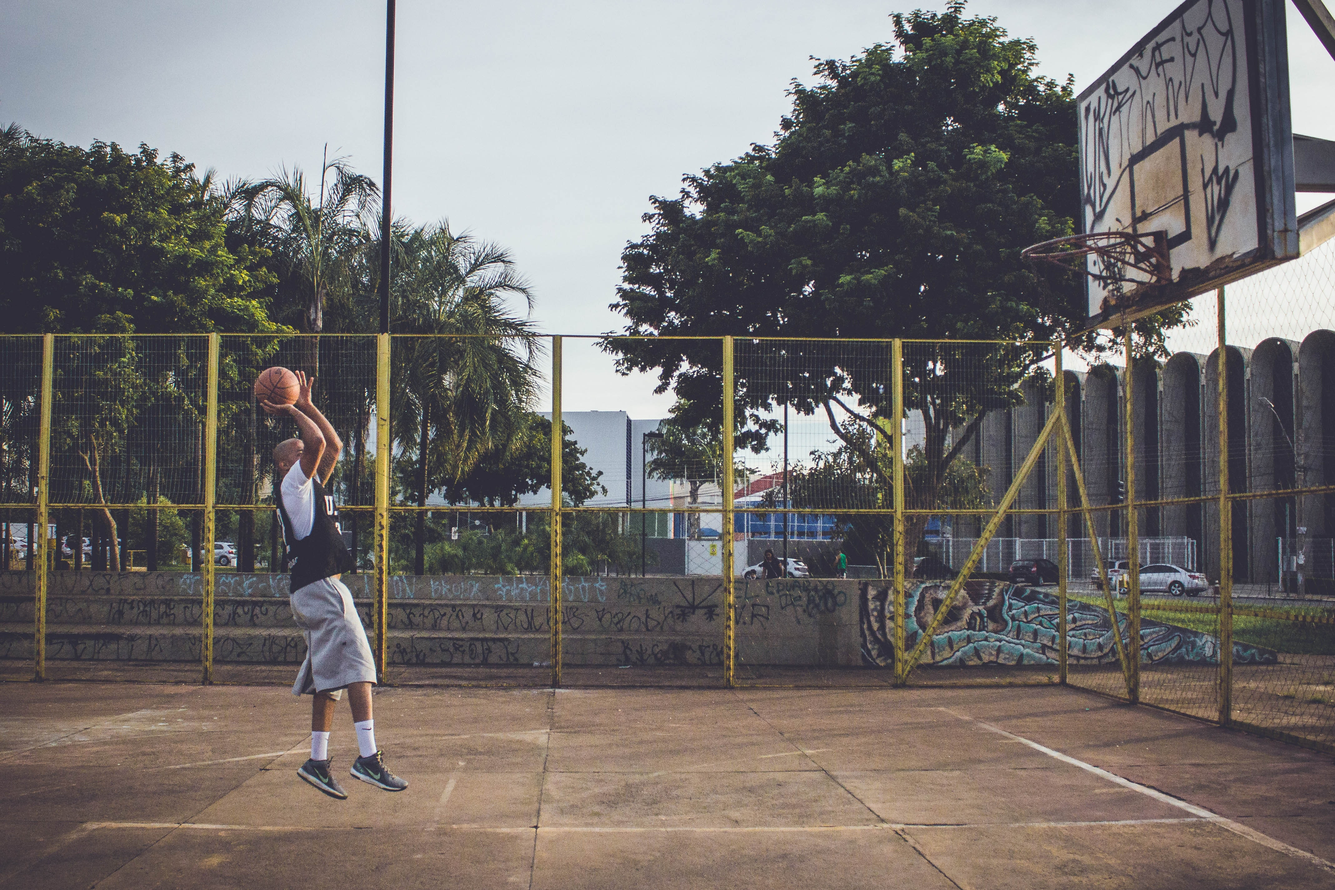
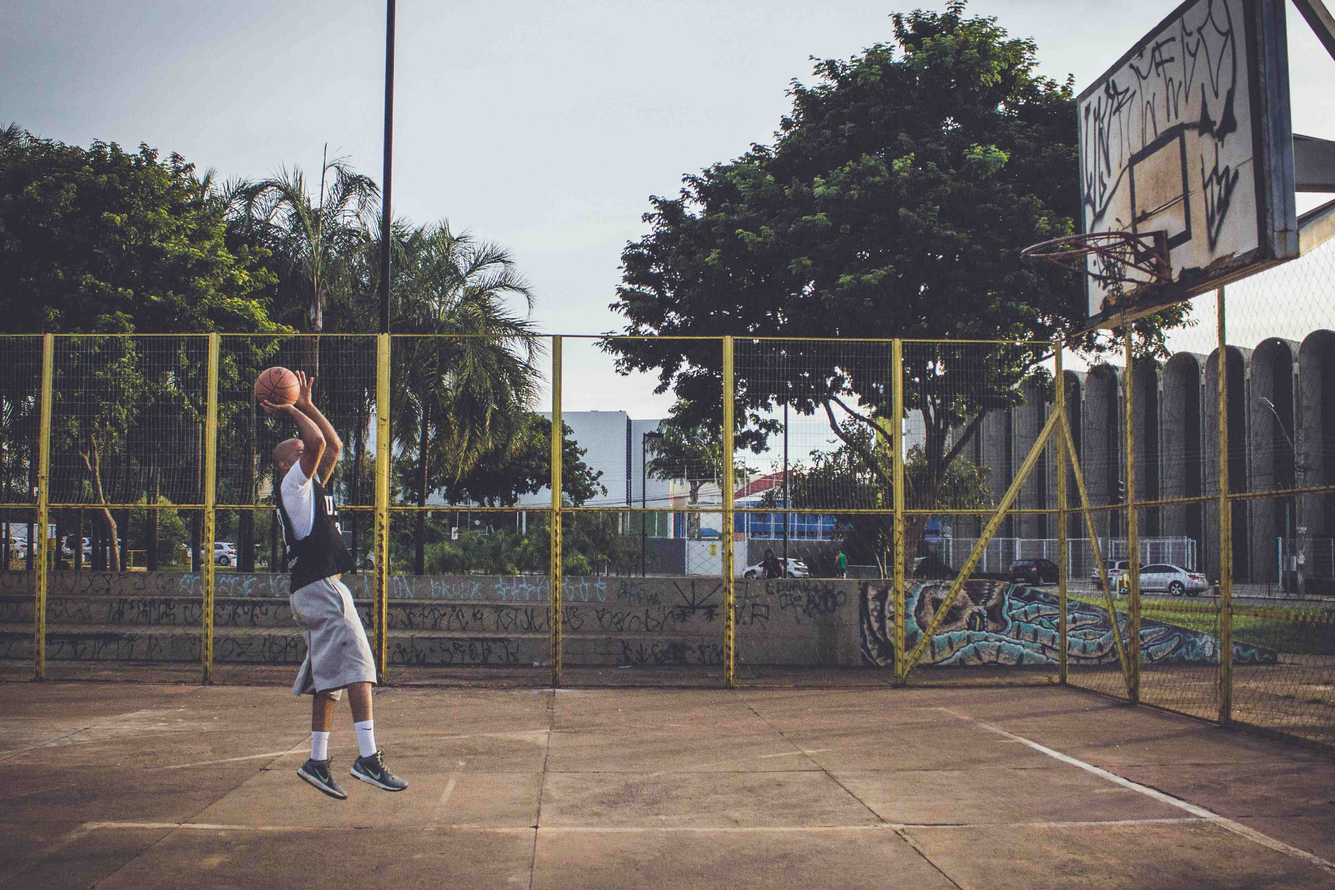
Change images formats and sizes to improve performance

diff --git a/index.html b/index.html
@@ -27,6 +27,9 @@
                     <a href="#anchor-two">Calendar</a>
                 </li>
                 <li>
+                    <a href="#anchor-three">Map</a>
+                </li>
+                <li>
                     <a href="signup.html">Sign up</a>
                 </li>
             </ul>
@@ -36,13 +39,13 @@
         <div id="hero-image"></div>
         <div id="cover-text">
             <h2>Basketball Youth Tournament</h2>
-            <h3>Brighton seafront & preston park</h3>
+            <h3 id="anchor-one">Brighton seafront & preston park</h3>
         </div>
     </section>
     <section id="tournament">
         <div id="text-side">
             <div class="text-side-left">
-                <h2 id="anchor-one">About Us <i class="fa-solid fa-question"></i></h2>
+                <h2>About Us <i class="fa-solid fa-question"></i></h2>
                 <hr>
                 <h3>First edition of the BYT in Brighton,UK. Here to help the East Sussex basketball community to grow and have a good time!</h3>
             </div>
@@ -52,7 +55,7 @@
                 <h3>If your aged 14-16yo, register and come down to Preston Park for the Selection Camp. 320 spots available, so make sure to get in shape!</h3>
             </div>
             <div class="text-side-left">
-                <h2>Teams <i class="fa-solid fa-people-group"></i></h2>
+                <h2 id="anchor-two">Teams <i class="fa-solid fa-people-group"></i></h2>
                 <hr>
                 <h3>We'll create 32 teams of 10 players each. The team creation process will be completely randomized to ensure fairness.</h3>
             </div>
@@ -64,13 +67,13 @@
             </div>
         </div>
         <div id="image-right">
-            <img src="assets/images/pexels-joaquín-ponce.jpg" alt="basketball entering a hoop">
+            <img src="assets/images/pexels-joaquín-ponce.webp" alt="basketball entering a hoop">
         </div>
     </section>
     <section id="calendar">
         <div id="calendar-event">
             <div class="calendar-event-left">
-                <h2 id="anchor-two">Selection Camp <i class="fa-solid fa-star"></i></h2>
+                <h2>Selection Camp <i class="fa-solid fa-star"></i></h2>
                 <h3>Wednesday 28/5</h3>
                 <h3>Preston Park</h3>
                 <h3>11:00 - 20:00</h3>
@@ -97,6 +100,11 @@
         
         <div id="image-left">
             <img src="assets/images/pexels-justiniano-adriano.jpg" alt="one side of a basketball court with a residential street in the background">
+        </div>
+    </section>
+    <section>
+        <div id="map">
+            <iframe id="anchor-three" src="https://www.google.com/maps/embed?pb=!1m18!1m12!1m3!1d5039.000522405874!2d-0.1498947695006414!3d50.84041986481047!2m3!1f0!2f0!3f0!3m2!1i1024!2i768!4f13.1!3m3!1m2!1s0x48758f89cecd70fd%3A0xfaed16e9581ad084!2sPreston%20Park!5e0!3m2!1sen!2suk!4v1664216664532!5m2!1sen!2suk" width="100%" height="450" style="border:0;" allowfullscreen="" loading="lazy" referrerpolicy="no-referrer-when-downgrade"></iframe>
         </div>
     </section>
     <footer>

diff --git a/assets/css/style.css b/assets/css/style.css
@@ -17,11 +17,14 @@ body {
 
 header {
     width: 100%;
+    height: 75px;
     position: fixed;
     background-color: #eaeded;
     z-index: 1;
     
 }
+
+
 
 
 /* logo and nav*/
@@ -70,6 +73,7 @@ header {
     height: 600px;
     width: 100%;
     overflow: hidden;
+    padding-top: 75px;
 
     position: relative;
 }
@@ -104,7 +108,7 @@ header {
 hr {
     border-top: 2px solid #17202a;
     width: 100%;
-    margin: 5px 0;
+    margin: 0;
 }
 
 #tournament {
@@ -227,6 +231,14 @@ hr {
     text-align: center;
 }
 
+/* map section */
+
+#map {
+    height: 450px;
+    width: 100%;
+    display: inline-block;
+}
+
 /* footer */
 
 #contacts {
@@ -301,7 +313,7 @@ hr {
 
 
 .form-section {
-    background: url('../images/pexels-rodnae-productions.jpg');
+    background: url('../images/pexels-rodnae-productions.webp');
     background-size: cover;
     background-position: center;
     height: 750px;
@@ -375,19 +387,25 @@ hr {
 
 /* For medium screens size from 900px wide and down */
 @media screen and (max-width: 900px) {
-    hr {
-        display: none;
+    #hero-outer {
+        height: auto;
     }
 
+    #cover-text {
+        width: 300px;
+        height: 150px;
+    }
+
+
     #text-side {
-        width: 50%;
+        width: 100%;
         height: 300px;
         float: left;
     }
 
     #image-right {
-        width: 50%;
-        height: 300px;
+        width: 100%;
+        height: auto;
         float: right;
     }
     
@@ -412,13 +430,13 @@ hr {
     }
 
     #image-left {
-        width: 50%;
-        height: 300px;
+        width: 100%;
+        height: auto;
         float: left;
     }
 
     #calendar-event {
-        width: 50%;
+        width: 100%;
         height: 300px;
         float: right;
     }
@@ -458,45 +476,10 @@ hr {
 
 /* for small screens size 650px wdie and down */
 @media screen and (max-width: 650px) {
-    #nav {
-        float: left;
-        padding-left: 10px;
-        font-size: 80%;
-    }
-
-    #cover-text {
-        width: 300px;
-        height: 150px;
-    }
-
-    #text-side {
-        width: 100%;
-    }
-
-    #image-right {
-        width: 100%;
-    }
-
-    #image-left {
-        width: 100%;
-    }
-
-    #calendar-event {
-        width: 100%;
-    }
-
-    .calendar-event-left, .calendar-event-right {
-        width: 50%;
-        height: 50%;
-        line-height: 10px;
-        margin: 0;
-        font-size: 80%;
-    }
-
     #contacts {
         width: 100%;
     }
-
+   
     #social {
         width: 100%;
     }
